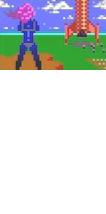
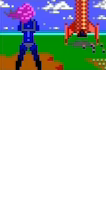
Play the whole Syreen capture scene at 1.2x (#69)
All of D's clip up to the elevator's fifth return into the ship, with
its doorway empty (clip frames 1-191 instead of 1-117), played at 1.2x:
96 frames of 55 ms, then the same one-second hold and fade.

Claude-Session: https://claude.ai/code/session_01P1P9XcLxUxFLyx9cmZK3oe

diff --git a/tools/make_syreen_capture_anim.py b/tools/make_syreen_capture_anim.py
@@ -3,9 +3,10 @@
 Takes a short clip (120x82, 30 fps) of the Star Control scene, with a grey
 bevelled frame around it, and cuts it down to the scene itself: the frame is
 cropped off (a 106x70 picture is left), and only clip frames START..END are
-kept, at 15 fps, from the captain standing hands on hips, through her folding
-her arms, to the end of one full loop of the crew walking aboard. The last
-picture is held, then faded out over a few frames.
+kept, at 15 fps: the whole clip, from the captain standing hands on hips,
+through her folding her arms, up to the elevator's fifth return into the ship
+with its doorway empty. sc.syreen_captured plays them at 1.2x speed; the
+last picture is held, then faded out over a few frames.
 
 sc.syreen_captured in lua/sc.lua plays them as a halo when a Syreen takes an
 enemy planet and refills its crew. A halo is drawn centred on its hex, so
@@ -30,7 +31,7 @@ from PIL import Image
 OUT = "images/halo/sc/syreen-capture-{}-{:03d}.png"
 HEX = 72                    # picture centre this far above / below the planet's
 CROP = (6, 6, 112, 76)      # left, top, right, bottom: inside the grey frame
-START, END = 1, 117         # clip frames kept (1-based, inclusive)
+START, END = 1, 191         # clip frames kept (1-based, inclusive)
 STEP = 2                    # keep every 2nd frame: 30 fps -> 15 fps
 FADE = (0.8, 0.6, 0.4, 0.2)
 
